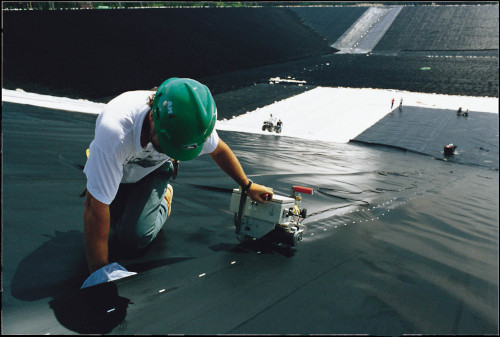
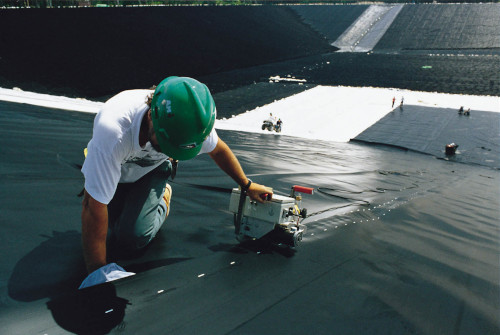
Ajustes nas img na sections geossintéticos

diff --git a/src/html/geossinteticos.html b/src/html/geossinteticos.html
@@ -48,7 +48,7 @@
 
         <section class="geossinteticos">
             <div>
-                <img src="../imagens/geogridler-01.jpg" alt="">
+                <img src="../imagens/geo-geogridler.jpg" alt="Geogrelhas">
             </div>
 
             <div>
@@ -56,7 +56,17 @@
                 <p>Geossintético é um termo composto por “geo + sintético”, que significa “terra + um produto manufaturado pelo homem”. Pode-se designar como um produto fabricado a partir de materiais poliméricos (sintéticos ou naturais) usado em contato com os maciços naturais, solos ou rochas, principalmente para resolver problemas em geotécnica ou em outro material geotécnico em obras de Engenharia. A natureza sintética desses produtos os tornam próprios para uso em obras de terra onde um alto nível de durabilidade é exigido.</p>
             </div>
         </section>
+
+        <section class="principais-aplicacoes">
+            <div>
+                <img src="" alt="">
+            </div>
+        </section>
     </main>
+
+    <!-- <footer class="footer">
+        <p>Copyright © 2022 | Site Criado Por <a href="https://www.linkedin.com/in/vandeson-santos-9a8639109/" target="_blank">Vandeson Santos</a> Para Desenvolvimento de Tecnologia em Geossintéticos</p>
+    </footer> -->
 
 
     <!-- <main>
@@ -87,10 +97,5 @@
             </picture>
         </article>
     </main>
-
-    
-    <footer>
-        <p>Copyright © 2022 | Site Criado Por <a href="https://www.linkedin.com/in/vandeson-santos-9a8639109/" target="_blank">Vandeson Santos</a> Para Desenvolvimento de Tecnologia em Geossintéticos</p>
-    </footer> -->
 </body>
 </html>

diff --git a/src/css/geossinteticos.css b/src/css/geossinteticos.css
@@ -35,6 +35,7 @@ body{
     align-items: center;
     padding: 0 30px;
     gap: 50px;
+    margin-top: 100px;
 }
 
 .geossinteticos div{
@@ -54,14 +55,16 @@ body{
     font-family: var(--fonte-destaque);
     color: var(--cor2);
     text-align: center;
-    font-size: 3rem;
+    font-size: 3.2rem;
+    text-shadow: 1px 1px 1px #0000009d;
     margin-bottom: 20px;
 }
 
 .geossinteticos p{
-    font-size: 1.5rem;
-    line-height: 1.4em;
+    font-size: 1.6rem;
+    line-height: 1.5em;
     color: #ffffffd2;
+    text-align: justify;
 }
 
 @media(max-width: 750px){
@@ -73,6 +76,7 @@ body{
     .geossinteticos{
         flex-direction: column;
         gap: 20px;
+        margin-top: 0;
     }
     
     .geossinteticos div img{
